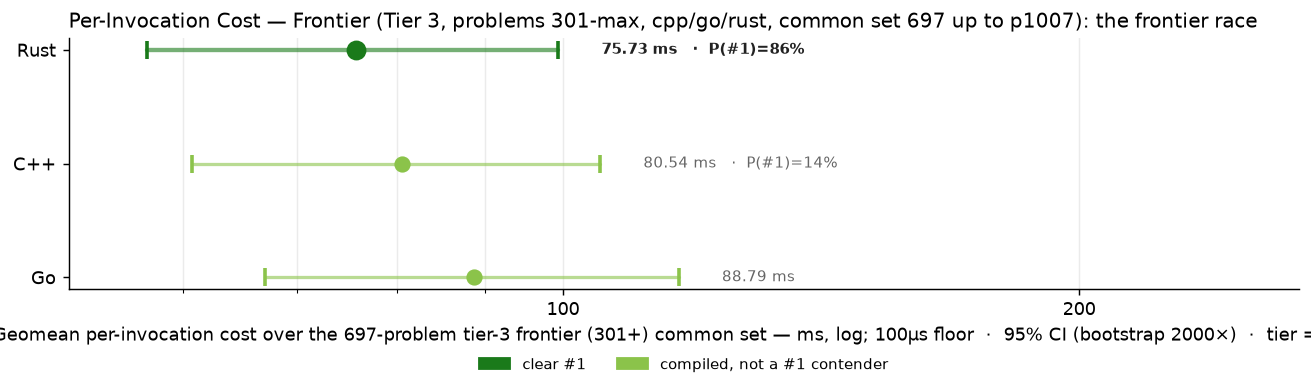
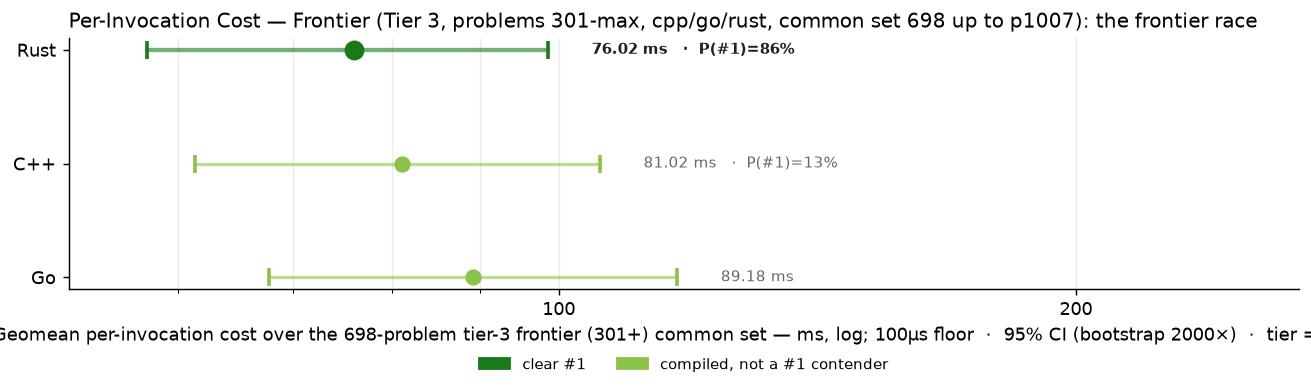
cpp p0983

diff --git a/RESULTS.md b/RESULTS.md
@@ -1,6 +1,6 @@
 # Project Euler — Cross-Language Benchmarks
 
-> **Scope: 4521 in-scope cells across 1007 problems × tiered languages — 4498 measured (99.5% coverage).**
+> **Scope: 4521 in-scope cells across 1007 problems × tiered languages — 4499 measured (99.5% coverage).**
 > The cross-language ranking below is computed over the **200-problem common set** (problems in 1-200 where every language has a passing measurement) — the apples-to-apples Foundation comparison surface.  Per-tier rankings and coverage detail appear further below.
 > Growing carefully — each new problem and language is audited for state-leak
 > safety, verified for answer correctness, and added only when it cleanly fits the
@@ -70,15 +70,15 @@ Same scatter as the Foundation chart, restricted to the tier-2 active languages 
 
 The frontier verification trio — C++, Go, Rust — on problems above 300. 3-way cross-language agreement is the verification protocol (strictly stronger than 2-way; see JOURNEY.md "Tier Reframing" episode for the p254 lesson that motivated it). Python and Zig are explicitly out of this tier — python's wall cost makes it impractical at level 5+, and zig's role caps at Tier 2.
 
-### Per-Invocation Cost (Common Set, 697 of ≤707 problems in scope)
+### Per-Invocation Cost (Common Set, 698 of ≤707 problems in scope)
 
 ![Per-Invocation Cost — Tier 3](charts/per_iter_total_tier3.png)
 
-| Rank | Language | Geomean (697-problem common set) | Total (sum) | Lines of code | vs Fastest |
+| Rank | Language | Geomean (698-problem common set) | Total (sum) | Lines of code | vs Fastest |
 |------|----------|--------------------:|------------:|--------------:|-----------:|
-| 1 | **Rust** | 75.73 ms | 1777.90 s | 143,895 | 1.00× |
-| 2 | **C++** | 80.54 ms | 1965.17 s | 105,532 | 1.06× |
-| 3 | **Go** | 88.79 ms | 2152.14 s | 134,522 | 1.17× |
+| 1 | **Rust** | 76.02 ms | 1779.08 s | 144,193 | 1.00× |
+| 2 | **C++** | 81.02 ms | 1970.07 s | 105,856 | 1.07× |
+| 3 | **Go** | 89.18 ms | 2154.16 s | 134,864 | 1.17× |
 
 ### Speed vs Code Size
 
@@ -264,7 +264,7 @@ table never silently mixes versions (METHODOLOGY.md §4).  Current state of the
 |----------|-----------|------:|---------------|
 | **ARM64** | `Apple clang version 21.0.0 (clang-2100.1.1.101)` | 200 | 2026-07-30 |
 | **C** | `Apple clang version 21.0.0 (clang-2100.1.1.101)` | 200 | 2026-07-30 |
-| **C++** | `Apple clang version 21.0.0 (clang-2100.1.1.101)` | 997 | 2026-09-09 |
+| **C++** | `Apple clang version 21.0.0 (clang-2100.1.1.101)` | 998 | 2026-09-09 |
 | **C#** | `10.0.101` | 200 | 2026-07-30 |
 | **Go** | `go version go1.26.5 darwin/arm64` | 999 | 2026-09-09 |
 | **Java** | `openjdk version "21.0.2" 2024-01-16 LTS` | 200 | 2026-07-30 |

diff --git a/per_problem/per_problem_0901-1000.md b/per_problem/per_problem_0901-1000.md
@@ -90,7 +90,7 @@ in tier-1 display order (native → managed → interpreted).
 | **p0980** | 175.83 ms | 176.68 ms | 222.43 ms |
 | **p0981** | 74.69 ms | 25.17 ms | 25.90 ms |
 | **p0982** | 4.18 ms | 3.32 ms | 70.20 ms |
-| **p0983** | — | 1.18 s | 2.02 s |
+| **p0983** | 4.90 s | 1.18 s | 2.02 s |
 | **p0984** | 19.46 ms | 14.12 ms | 16.49 ms |
 | **p0985** | <1 µs | <1 µs~ | 1.4 µs~ |
 | **p0986** | — | 15.22 s | — |
